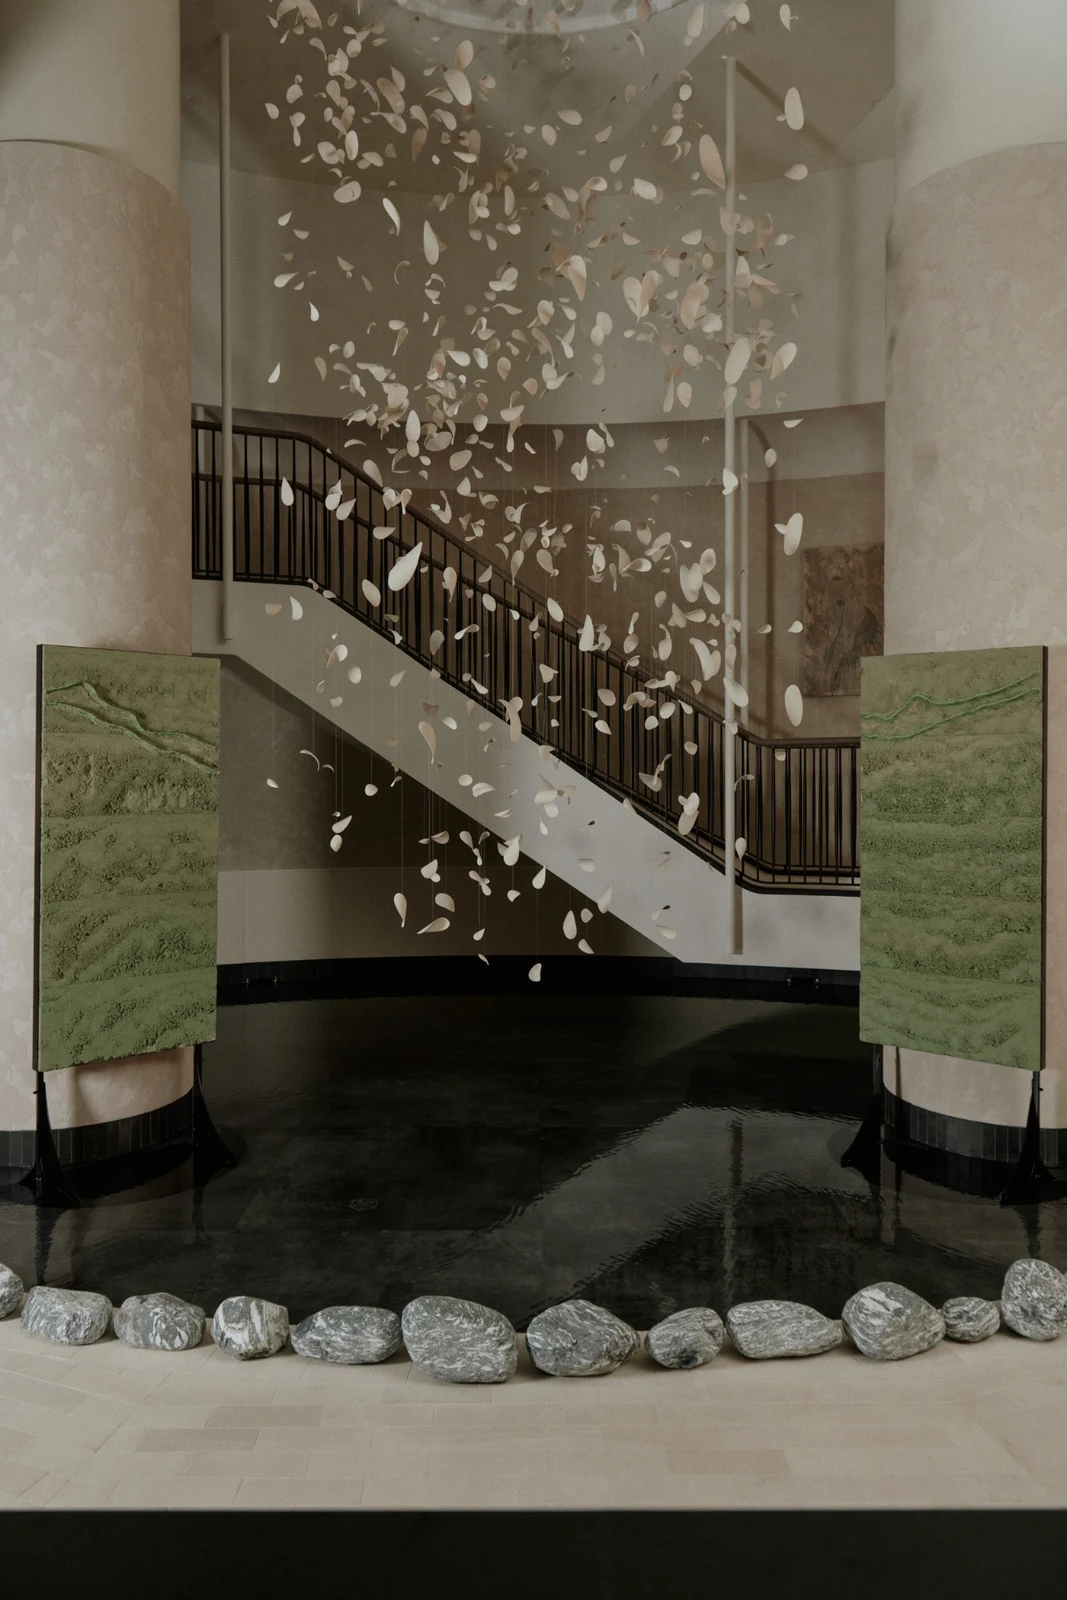
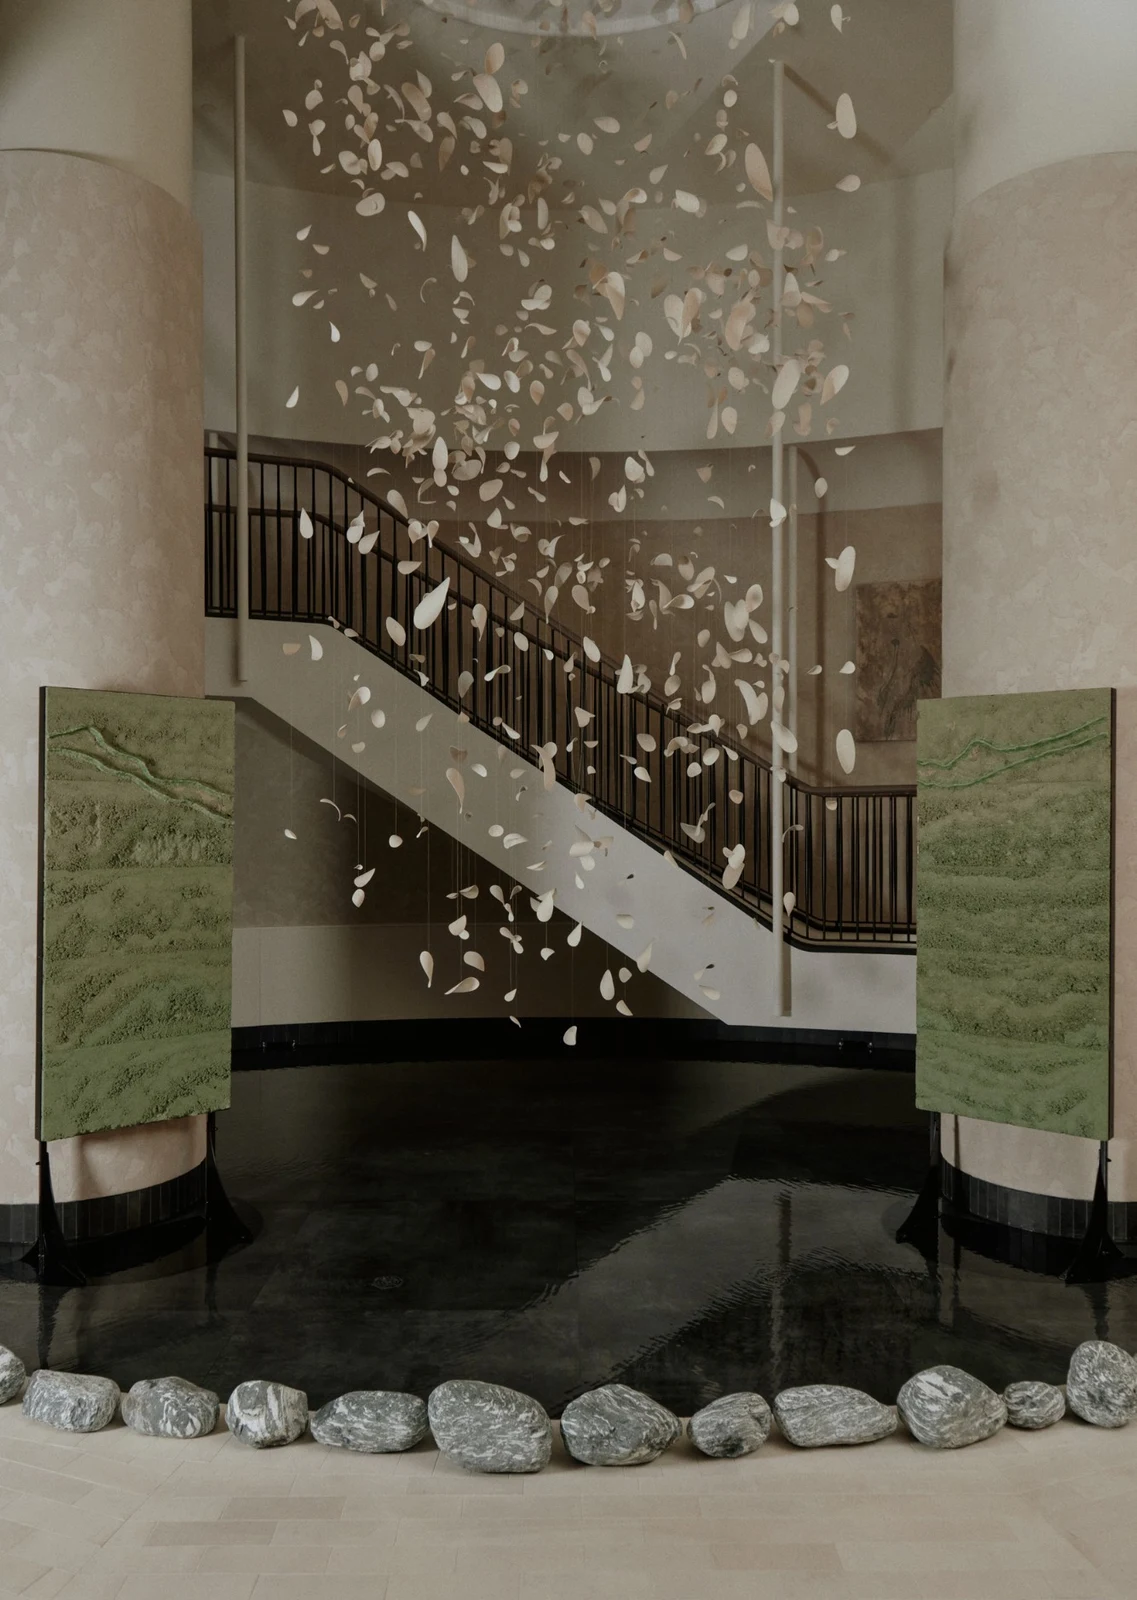
Present Terre Verte as a diptych with its panel size
Lead with the two-panel installation photo (cropped above the black strip),
price it as £16,000 for the diptych and add 80cm x 180cm per panel.

diff --git a/src/data/media.ts b/src/data/media.ts
@@ -115,7 +115,7 @@ export const mediaSlots: Record<string, MediaAsset> = {
   "adam-weismann-terre-verte-card": { src: "/assets/artworks/adam-weismann/terre-verte-card.webp", alt: "Terre Verte by Adam Weismann, a tall green rammed-earth panel with layered strata and two glassy ridges, on a black stand against a plaster column", width: 620, height: 1051 },
   "adam-weismann-terre-verte": { src: "/assets/artworks/adam-weismann/terre-verte.webp", alt: "Terre Verte by Adam Weismann, a tall green rammed-earth panel with layered strata and two glassy ridges, on a black stand against a plaster column", width: 1066, height: 1600 },
   "adam-weismann-terre-verte-angle": { src: "/assets/artworks/adam-weismann/terre-verte-angle.webp", alt: "Terre Verte by Adam Weismann seen at an angle on its black stand, with white suspended petals in front", width: 1068, height: 1600 },
-  "adam-weismann-terre-verte-installation": { src: "/assets/artworks/adam-weismann/terre-verte-installation.webp", alt: "Two Terre Verte panels by Adam Weismann standing either side of a dark pool beneath a suspended petal installation", width: 1067, height: 1600 },
+  "adam-weismann-terre-verte-installation": { src: "/assets/artworks/adam-weismann/terre-verte-installation.webp", alt: "Two Terre Verte panels by Adam Weismann standing either side of a dark pool beneath a suspended petal installation", width: 1137, height: 1600 },
   "adam-weismann-terre-verte-detail": { src: "/assets/artworks/adam-weismann/terre-verte-detail.webp", alt: "Close-up of Terre Verte by Adam Weismann showing two glassy green ridges crossing the earth surface", width: 1063, height: 1600 },
   "adam-weismann-terre-verte-texture": { src: "/assets/artworks/adam-weismann/terre-verte-texture.webp", alt: "Close-up of the layered green earth strata of Terre Verte by Adam Weismann", width: 1069, height: 1600 },
   "eleanor-herbosch-painting-hover": { src: "/assets/artworks/eleanor-herbosch/painting-hover.webp", alt: "Painting detail by Eleanor Herbosch with dark branching marks and raised textures on a grey surface", width: 758, height: 954 },

diff --git a/src/content/artworks/adam-weismann/terre-verte.md b/src/content/artworks/adam-weismann/terre-verte.md
@@ -4,16 +4,16 @@ artistSlug: "adam-weismann"
 slug: "terre-verte"
 title: "Terre Verte"
 artistName: "Adam Weismann"
-dimensions: ""
+dimensions: "80cm(w) x 180cm(h) per panel"
 materials: ""
-price: "£16,000"
-mainImage: {"slot":"adam-weismann-terre-verte"}
+price: "£16,000 for the diptych (two panels)"
+mainImage: {"slot":"adam-weismann-terre-verte-installation"}
 cardImage: {"slot":"adam-weismann-terre-verte-card"}
-gallery: [{"src":{"slot":"adam-weismann-terre-verte-angle"},"alt":"Terre Verte by Adam Weismann seen at an angle on its black stand, with white suspended petals in front"},{"src":{"slot":"adam-weismann-terre-verte-installation"},"alt":"Two Terre Verte panels by Adam Weismann standing either side of a dark pool beneath a suspended petal installation"},{"src":{"slot":"adam-weismann-terre-verte-detail"},"alt":"Close-up of Terre Verte by Adam Weismann showing two glassy green ridges crossing the earth surface"},{"src":{"slot":"adam-weismann-terre-verte-texture"},"alt":"Close-up of the layered green earth strata of Terre Verte by Adam Weismann"}]
+gallery: [{"src":{"slot":"adam-weismann-terre-verte"},"alt":"Terre Verte by Adam Weismann, a tall green rammed-earth panel with layered strata and two glassy ridges, on a black stand against a plaster column"},{"src":{"slot":"adam-weismann-terre-verte-angle"},"alt":"Terre Verte by Adam Weismann seen at an angle on its black stand, with white suspended petals in front"},{"src":{"slot":"adam-weismann-terre-verte-detail"},"alt":"Close-up of Terre Verte by Adam Weismann showing two glassy green ridges crossing the earth surface"},{"src":{"slot":"adam-weismann-terre-verte-texture"},"alt":"Close-up of the layered green earth strata of Terre Verte by Adam Weismann"}]
 detailVariant: "figma-2026"
 year: 2026
-tileMedium: "Clay"
+tileMedium: "Clay diptych"
 relatedIds: ["adam-weismann/clay-2025","eleanor-herbosch/unearthing-series-1","alexandra-yan-wong/ges-2","louis-vincent/wall-panel-iii"]
-seoDescription: "Terre Verte, 2026 by Adam Weismann. Enquire with Golden Earth Studio about pricing and availability."
+seoDescription: "Terre Verte, 2026 by Adam Weismann, a diptych of two panels. Enquire with Golden Earth Studio about pricing and availability."
 sourceWpId: null
 ---
